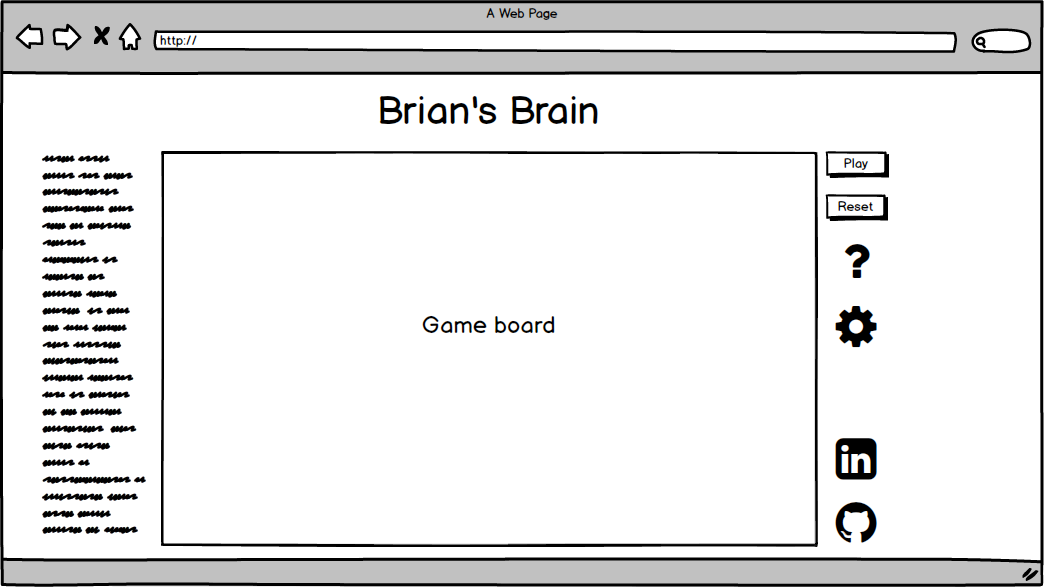
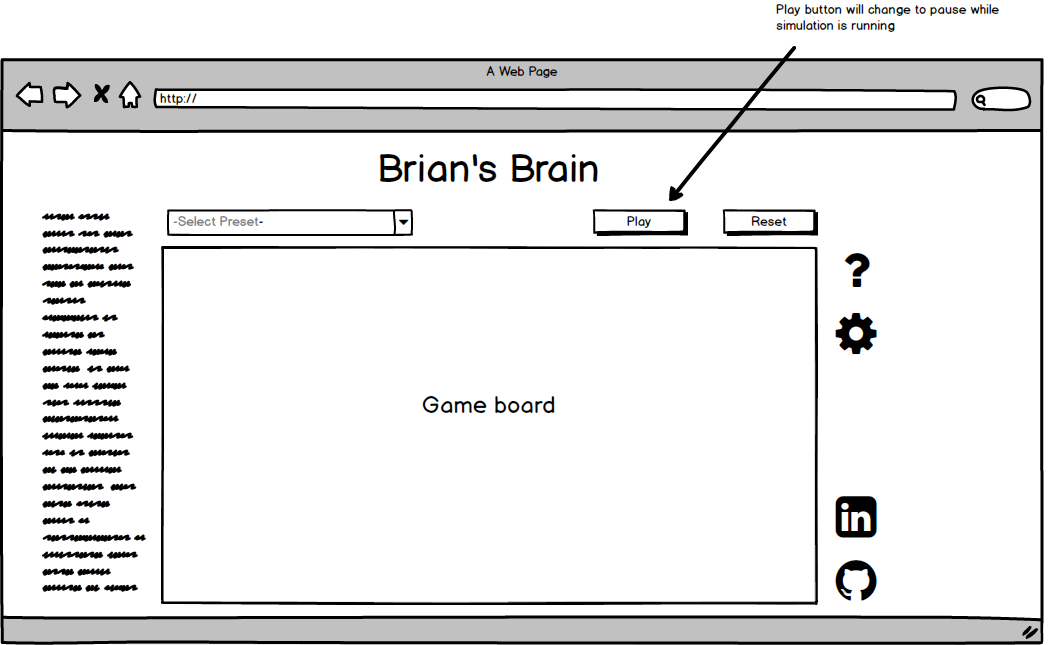
add modal wireframe and update game board wireframe to include more navigation links

diff --git a/README.md b/README.md
@@ -33,9 +33,11 @@ Also, this project will include
 
 This game will consist of a game board with basic instructions on the left hand side, and navigation links and Github and LinkedIn on the right. Inside the game board, the game initialize with a sample state. The user can click play to start the simulation.
 
+![Game board](wireframes/game_page.png)
+
 The user can click the question button to get more detailed explanation of how the simulation works.
 
-![Game board](wireframes/game_page.png)
+![Instruction Modal](wireframes/modal.png)
 
 ## Architecture and Technologies
 
